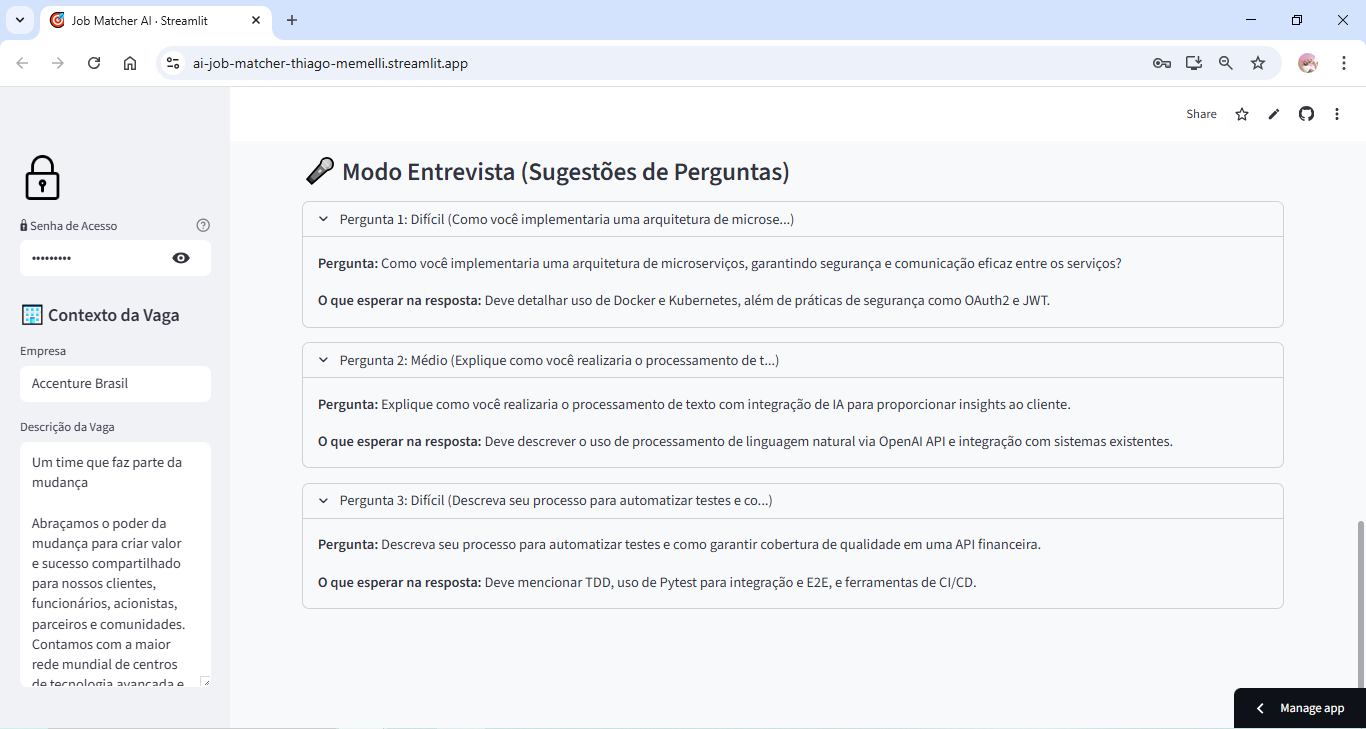
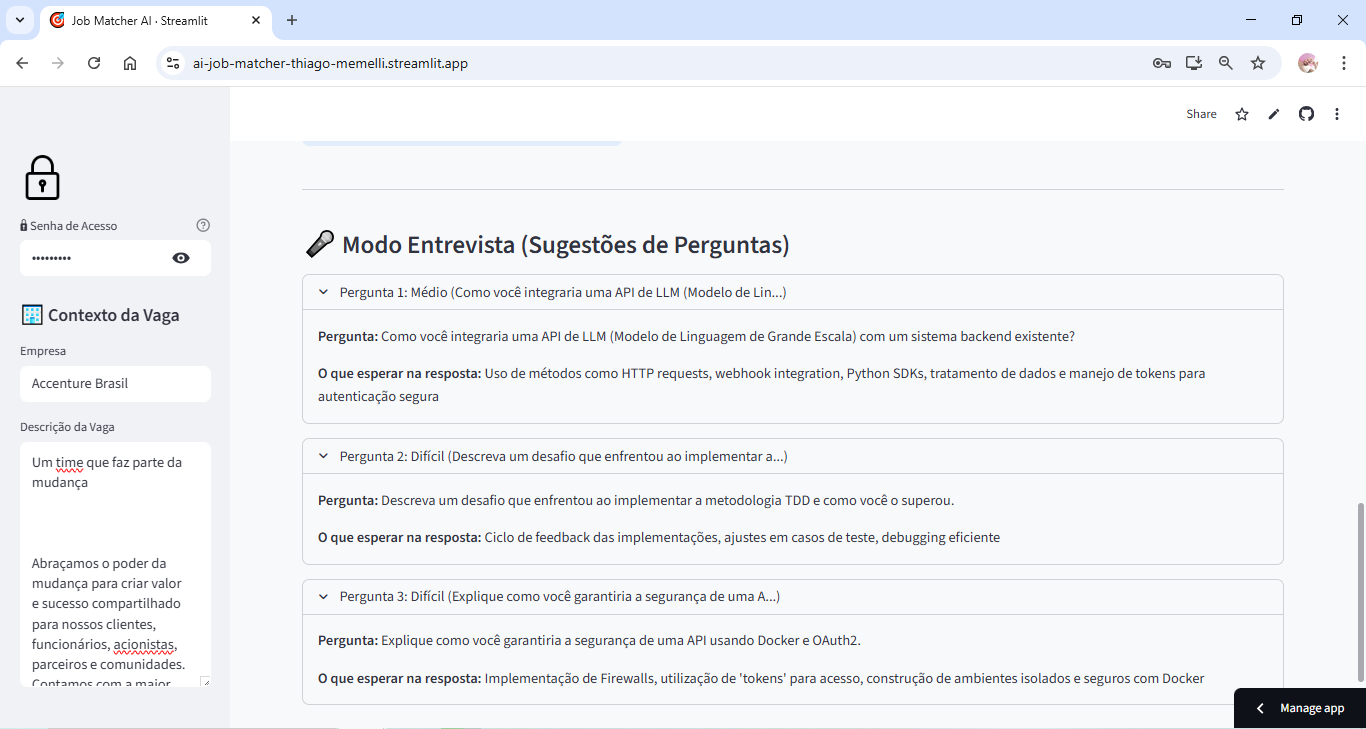
fix: busca LinkedIn otimizada + extração de website do GitHub

diff --git a/README.md b/README.md
@@ -125,27 +125,40 @@ Visão geral das principais funcionalidades do sistema:
 
 ---
 
-## 🧪 Estudo de Caso Real: Vaga ilegra vs. Candidato
+## 🧪 Estudo de Caso Real: Accenture (Inovação/LLMs) vs. Agente Autônomo
 
-Para validar a precisão do agente, submetemos o sistema a um teste cego com uma vaga real e competitiva.
+Para validar a robustez do agente, realizamos um **"Teste Cego"** (Blind Test) utilizando uma vaga de alta complexidade técnica.
 
-**1. O Cenário (Vaga LinkedIn)**
-* **Empresa:** ilegra
-* **Cargo:** Python Developer (Sênior)
-* **Stack Exigida:** Python, AWS (Lambda, DynamoDB), Docker, Terraform.
+**1. O Cenário (A Armadilha)**
+* **Empresa:** Accenture Brasil (Liquid Studio)
+* **Cargo:** Desenvolvedor(a) Inovação – Python | LLMs
+* **O Desafio:** Submetemos o currículo (`resume_test.pdf`) intencionalmente **SEM LINKS** (removemos GitHub, LinkedIn e Portfolio).
+* **Objetivo:** Provar que o agente consegue encontrar o candidato e avaliar seu código real, mesmo sem as URLs no papel.
 
-**2. A Análise do Agente**
-O sistema processou o currículo contra a vaga e gerou os seguintes insights:
+**2. A Prova Técnica (Backend Logs)**
+Nos bastidores, o sistema detectou a falha no PDF e iniciou o protocolo de busca autônoma. O log do servidor confirma a extração do usuário `tmemelli` diretamente dos resultados de busca da Web.
+
+> *Raio-X do Processamento: O sistema detecta a ausência de links, decide buscar na web e encontra o GitHub.*
+![Log de Processamento Backend](assets/terminal_log.png)
+
+**3. O Resultado Visual (O que o Recrutador Vê)**
+Na interface, os campos que estavam vazios no PDF aparecem preenchidos automaticamente. O agente não só encontrou o GitHub, como analisou o código contido nele para gerar o Match Score.
 
 * **✅ Match Score: 85%**
-    * O agente identificou uma alta compatibilidade. Diferente de um ATS comum que poderia descartar o candidato por falta de palavras-chave exatas de infraestrutura, a IA entendeu que a base sólida de Engenharia de Software (Clean Arch, TDD, SOLID) sustentava o nível **Sênior**.
-* **🎯 Validação de Senioridade**
-    * **Vaga Pede:** Sênior
-    * **Candidato:** Validado como **Sênior** pelo agente (não houve rebaixamento de nível, apesar dos gaps).
-* **⚠ Identificação de Gaps Precisos**
-    * O sistema alertou especificamente: *"Falta experiência explícita com AWS (Lambda, API Gateway, DynamoDB)"* e *"Forte vivência com Terraform"*. Isso direciona o recrutador para investigar o quanto o candidato estaria disposto a aprender essas ferramentas.
-* **🎤 Perguntas Geradas**
-    * Para mitigar o risco, o agente gerou uma pergunta técnica difícil sobre *"Desafios em projetos Serverless"*, permitindo validar se o candidato tem conceitos teóricos mesmo sem a prática da ferramenta específica.
+    * A análise técnica considerou os repositórios públicos encontrados (como o CashFlow API), validando a senioridade em Python, FastAPI e OpenAI API, essenciais para a vaga de Inovação.
+    
+![Dashboard com Links Encontrados](assets/dashboard.png)
+
+* **⚠ Identificação Cirúrgica de Gaps**
+    * A vaga exigia especificamente **Azure** e **Jenkins**. O agente identificou corretamente que o candidato possui experiência generalista em CI/CD e AWS, mas marcou a falta das ferramentas específicas da vaga como um ponto de atenção.
+    
+![Análise de Gaps](assets/gaps.png)
+
+* **🎤 Perguntas Contextuais (Modo Entrevista)**
+    * Como a vaga menciona "Integração de APIs de LLMs", o agente gerou perguntas específicas sobre esse tema, fugindo do padrão genérico.
+    * *Exemplo gerado:* "Como você integraria uma API de LLM com um sistema backend existente?"
+
+![Perguntas Geradas](assets/interview.png)
 
 ---
 
